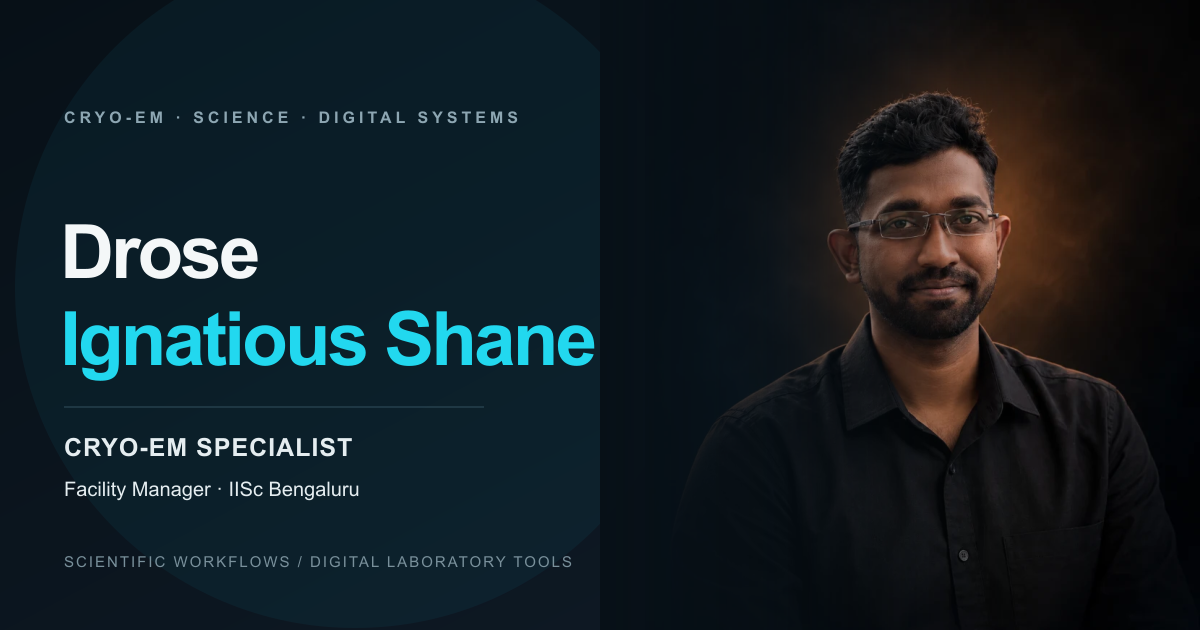
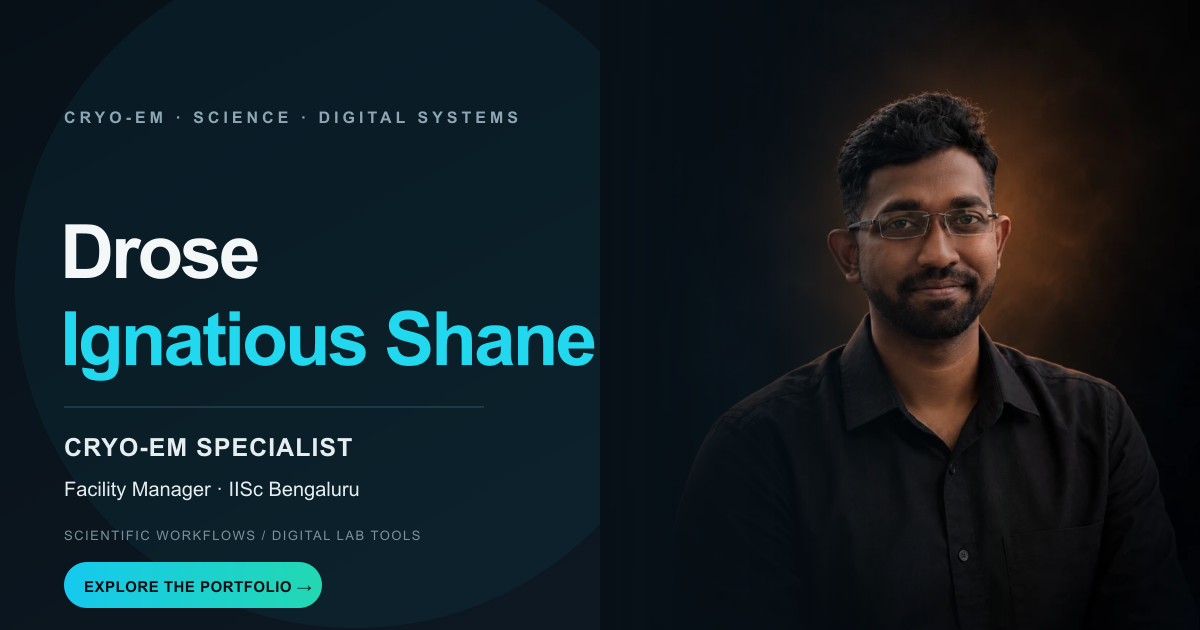
Shorten social metadata and add preview CTA

Changed region(s): [[0.0308, 0.8444, 0.4625, 0.9651]]

diff --git a/index.html b/index.html
@@ -23,13 +23,13 @@
     <meta name="theme-color" content="#07090d" />
     <meta
       name="description"
-      content="Drose Ignatious Shane is a Cryo-EM specialist and facility manager at IISc Bengaluru, building scientific workflows, research tools, and digital booking systems."
+      content="Drose Ignatious Shane is a Cryo-EM specialist at IISc Bengaluru, building scientific workflows and digital lab tools."
     />
-    <title>Drose Ignatious Shane | Cryo-EM Specialist & Digital Solutions</title>
+    <title>Drose Shane | Cryo-EM Specialist &amp; Facility Manager</title>
     <meta property="og:type" content="website" />
     <meta property="og:url" content="https://portfolio-drose.onrender.com/" />
-    <meta property="og:title" content="Drose Ignatious Shane | Cryo-EM Specialist &amp; Facility Manager" />
-    <meta property="og:description" content="Cryo-EM specialist at IISc Bengaluru. Building scientific research workflows and digital laboratory tools." />
+    <meta property="og:title" content="Drose Shane | Cryo-EM Specialist &amp; Facility Manager" />
+    <meta property="og:description" content="Cryo-EM specialist at IISc Bengaluru building scientific workflows and digital lab tools. Explore Drose Shane's work." />
     <meta property="og:image" content="https://portfolio-drose.onrender.com/preview.png" />
     <meta property="og:image:width" content="1200" />
     <meta property="og:image:height" content="630" />
@@ -37,8 +37,8 @@
     <meta property="og:image:alt" content="Drose Ignatious Shane, Cryo-EM specialist and facility manager at IISc Bengaluru" />
     <meta name="twitter:card" content="summary_large_image" />
     <meta name="twitter:url" content="https://portfolio-drose.onrender.com/" />
-    <meta name="twitter:title" content="Drose Ignatious Shane | Cryo-EM Specialist &amp; Facility Manager" />
-    <meta name="twitter:description" content="Cryo-EM specialist at IISc Bengaluru. Building scientific research workflows and digital laboratory tools." />
+    <meta name="twitter:title" content="Drose Shane | Cryo-EM Specialist &amp; Facility Manager" />
+    <meta name="twitter:description" content="Cryo-EM specialist at IISc Bengaluru building scientific workflows and digital lab tools. Explore Drose Shane's work." />
     <meta name="twitter:image" content="https://portfolio-drose.onrender.com/preview.png" />
     <link rel="preconnect" href="https://fonts.googleapis.com" />
     <link rel="preconnect" href="https://fonts.gstatic.com" crossorigin />
